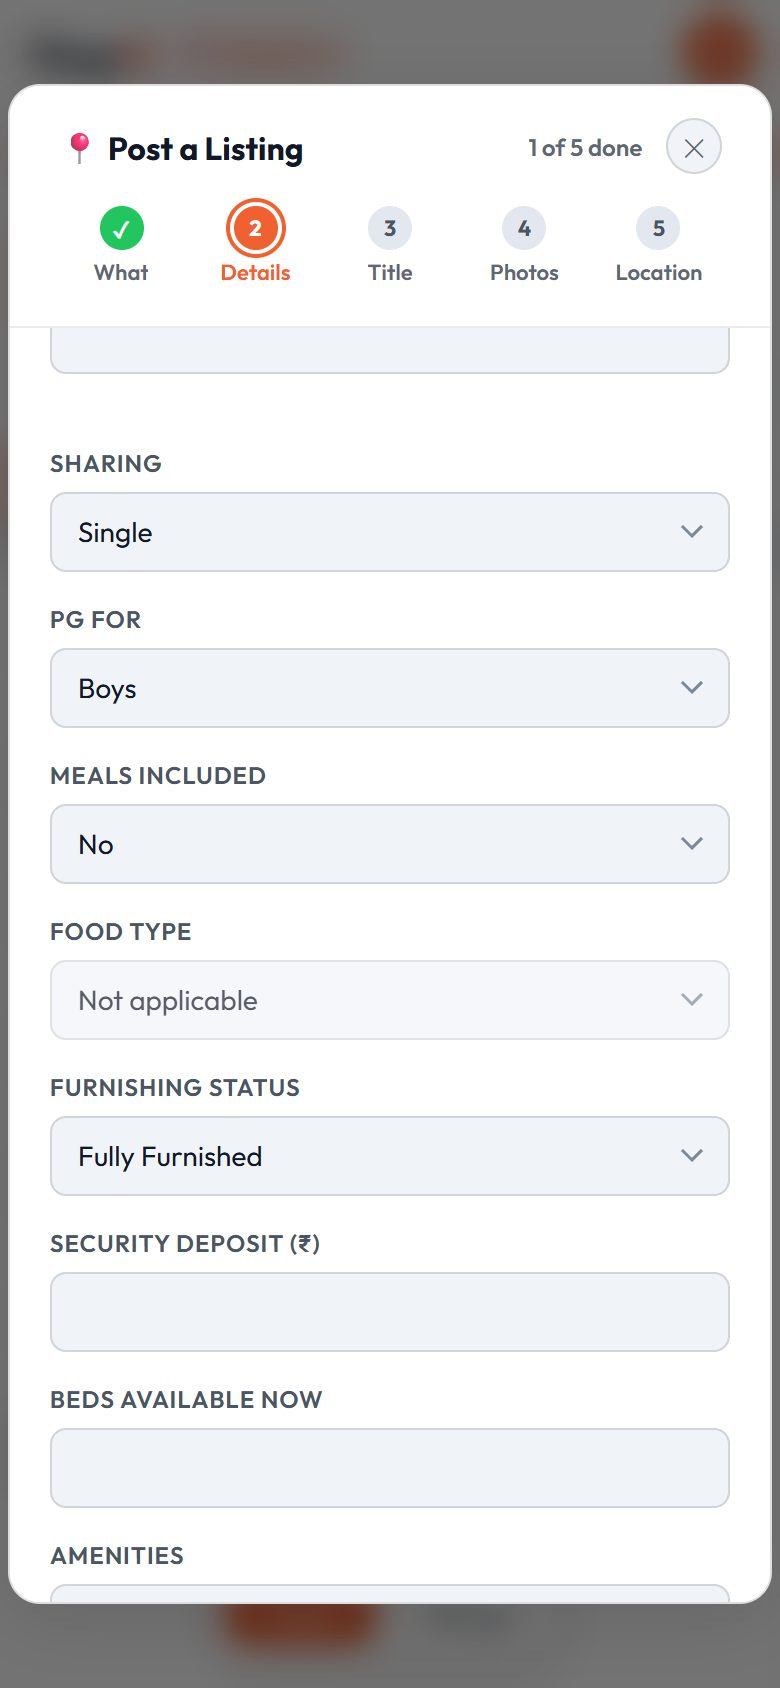
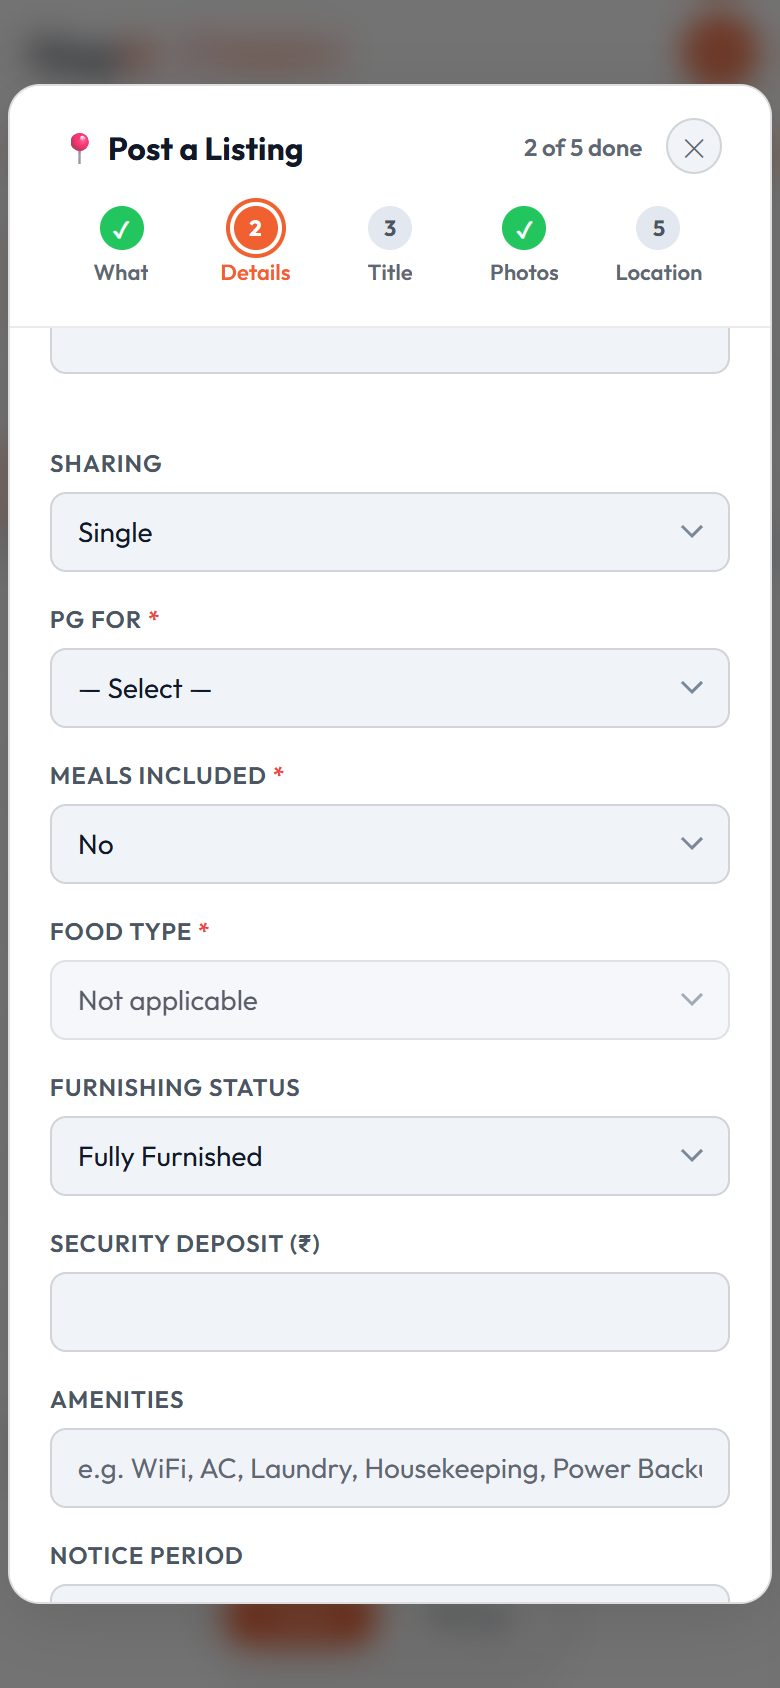
feat(listings): PG click-test changes - required fields, no photo needed
Nagesh's PG click-test (2026-10-28):
- remove 'Beds Available Now'
- rent, PG For, Meals Included, Food Type mandatory: required:true fields
  start at '- Select -', red *, checked by submit + step bar; server
  re-checks via REQUIRED_DETAILS / missingRequiredDetail() on POST + PUT
- PG may be posted without a photo (PHOTO_OPTIONAL_SUBCATS = Plots, PG)

diff --git a/MapIt_MVP_v1.html b/MapIt_MVP_v1.html
@@ -1138,7 +1138,7 @@ html,body{height:100%;overflow:hidden;font-family:'Outfit',sans-serif;background
         <section class="post-sec" data-step="Photos">
         <div class="post-sec-hd">Photos</div>
         <div class="form-group">
-          <label class="form-label">Photos <span style="color:var(--muted);font-weight:400;">(up to 5 · optional for Plots)</span></label>
+          <label class="form-label">Photos <span style="color:var(--muted);font-weight:400;">(up to 5 · optional for Plots and PG)</span></label>
           <div id="postCurPhotos" class="post-cur-photos" style="display:none;"></div>
           <input type="file" id="postPhotos" accept="image/*" multiple style="display:none;" onchange="onPostPhotosPicked(this)"/>
           <button type="button" class="pcp-add" id="postPhotosAdd" onclick="document.getElementById('postPhotos').click()">📷 Add photos</button>
@@ -1647,6 +1647,14 @@ const BHK_OPTIONS = ['1 BHK','1.5 BHK','2 BHK','2.5 BHK','3 BHK','3.5 BHK','4 BH
 // Real Estate types that can only be rented (FB-04). Keep in sync with
 // RENT_ONLY_SUBCATEGORIES in src/config/listingRules.js (server enforces it).
 const RENT_ONLY_SUBCATS = ['PG'];
+// Types that may be posted without a photo (Plots: Session 9G; PG: Nagesh 2026-10-28)
+const PHOTO_OPTIONAL_SUBCATS = ['Plots','PG'];
+// Fields marked required:true must be filled/chosen (a required select starts
+// at "— Select —"). Same rule in submitListing() and the step bar; the server
+// re-checks via REQUIRED_DETAILS in src/config/listingRules.js.
+function missingRequiredField(cat, sub){
+  return ((LISTING_FIELDS[cat]||{})[sub] || []).find(f => f.required && !String(document.getElementById(`pf_${f.id}`)?.value || '').trim());
+}
 
 // ── CATEGORY-SPECIFIC LISTING FIELDS ──
 // starred:true fields appear in map hover card
@@ -1723,14 +1731,13 @@ const LISTING_FIELDS = {
     // words and the "price required" check work unchanged; "/mo" comes from
     // transaction_type='Rent'. Meals = No locks Food Type to 'Not applicable'.
     'PG':                  [
-      { id:'total_price',   label:'Monthly Rent per Bed (₹)',  type:'number', starred:true },
+      { id:'total_price',   label:'Monthly Rent per Bed (₹)',  type:'number', starred:true, required:true },
       { id:'sharing',       label:'Sharing',                   type:'select', options:['Single','Double','Triple','Dormitory'], starred:true },
-      { id:'pg_for',        label:'PG For',                    type:'select', options:['Boys','Girls','Co-living (any)'], starred:true },
-      { id:'meals',         label:'Meals Included',            type:'select', options:['Yes','No'], starred:true },
-      { id:'food_type',     label:'Food Type',                 type:'select', options:['Veg only','Veg + Non-Veg','Not applicable'] },
+      { id:'pg_for',        label:'PG For',                    type:'select', options:['Boys','Girls','Co-living (any)'], starred:true, required:true },
+      { id:'meals',         label:'Meals Included',            type:'select', options:['Yes','No'], starred:true, required:true },
+      { id:'food_type',     label:'Food Type',                 type:'select', options:['Veg only','Veg + Non-Veg','Not applicable'], required:true },
       { id:'furnishing',    label:'Furnishing Status',         type:'select', options:['Fully Furnished','Semi-Furnished','Unfurnished'] },
       { id:'deposit',       label:'Security Deposit (₹)',      type:'number' },
-      { id:'beds_available',label:'Beds Available Now',        type:'number' },
       { id:'amenities',     label:'Amenities',                 type:'text', placeholder:'e.g. WiFi, AC, Laundry, Housekeeping, Power Backup' },
       { id:'notice_period', label:'Notice Period',             type:'select', options:['15 days','1 month','2 months'] },
       { id:'available_from',label:'Available From',            type:'text', placeholder:'e.g. Immediately, 1 Nov' },
@@ -4083,13 +4090,13 @@ const POST_STEP_DONE = {
   Details:  () => {
     const cat = document.getElementById('postCat').value, sub = document.getElementById('postSubcat').value;
     const fields = (LISTING_FIELDS[cat]||{})[sub] || [];
-    return !!sub && (!fields.length || parseFloat(document.getElementById('pf_total_price')?.value) > 0);
+    return !!sub && (!fields.length || parseFloat(document.getElementById('pf_total_price')?.value) > 0) && !missingRequiredField(cat, sub);
   },
   Title:    () => !!document.getElementById('postTitle').value.trim(),
   Photos:   () => {
-    // Same rule as submitListing(): Plots and older photo-less listings
+    // Same rule as submitListing(): Plots/PG and older photo-less listings
     // being edited may go without a photo
-    const needsPhoto = document.getElementById('postSubcat').value !== 'Plots' && (!ST.editingId || _editPhotos.length > 0);
+    const needsPhoto = !PHOTO_OPTIONAL_SUBCATS.includes(document.getElementById('postSubcat').value) && (!ST.editingId || _editPhotos.length > 0);
     return !needsPhoto || (ST.editingId ? keptPhotoTotal() : 0) + _newPhotos.length > 0;
   },
   Location: () => {
@@ -4274,10 +4281,10 @@ function renderDynamicFields(){
   container.innerHTML =
     fields.map(f => {
       const inp = f.type === 'select'
-        ? `<select class="form-input form-select" id="pf_${f.id}">${f.options.map(o=>`<option>${o}</option>`).join('')}</select>`
+        ? `<select class="form-input form-select" id="pf_${f.id}">${f.required?`<option value="" disabled selected>— Select —</option>`:''}${f.options.map(o=>`<option>${o}</option>`).join('')}</select>`
         : `<input class="form-input" id="pf_${f.id}" type="${f.type === 'number' ? 'number' : 'text'}" min="${f.type==='number'?'0':''}"${f.placeholder?` placeholder="${f.placeholder}"`:''}${f.default!=null?` value="${f.default}"`:''}/>`;
       const words = f.id === 'total_price' ? `<div class="price-words" id="pfw_total_price"></div>` : '';
-      return `<div class="form-group"><label class="form-label">${f.label}</label>${inp}${words}</div>`;
+      return `<div class="form-group"><label class="form-label">${f.label}${f.required?' <span style="color:var(--red);">*</span>':''}</label>${inp}${words}</div>`;
     }).join('');
   const tp = document.getElementById('pf_total_price');
   if(tp) tp.addEventListener('input', updatePriceWords);
@@ -4290,7 +4297,7 @@ function syncPgFood(){
   if(!meals || !food) return;
   const none = meals.value === 'No';
   if(none) food.value = 'Not applicable';
-  else if(food.value === 'Not applicable') food.value = 'Veg only';
+  else if(food.value === 'Not applicable') food.value = ''; // Meals = Yes → seller must pick the food type
   food.disabled = none;
 }
 // Session 9J — '2800000' → '₹28 Lakh' under the box, so a missing or extra zero is obvious
@@ -4500,13 +4507,15 @@ async function submitListing(){
   if(!title){ toast('Please enter a title.'); return; }
   if(!subcategory){ toast('Please select a listing type (e.g. Cars, 2 Wheelers).'); return; }
   if(fields.length && !price){ toast('Please enter a price in the listing details.'); return; }
+  const missing = missingRequiredField(category, subcategory);
+  if(missing){ toast(`Please fill in "${missing.label}".`); document.getElementById(`pf_${missing.id}`)?.focus(); return; }
   // Session 9G (Arun): an empty plot often has nothing worth photographing,
-  // so Plots may be posted without a photo. Every other type still needs one.
+  // so Plots (and PG, 2026-10-28) may be posted without a photo. Every other type still needs one.
   const newPhotoCount  = _newPhotos.length;
   const keptPhotoCount = ST.editingId ? keptPhotoTotal() : 0;
   // New listing: needs a photo. Edit: may not remove every photo (older
   // photo-less listings can still be edited without adding one).
-  const needsPhoto = subcategory !== 'Plots' && (!ST.editingId || _editPhotos.length > 0);
+  const needsPhoto = !PHOTO_OPTIONAL_SUBCATS.includes(subcategory) && (!ST.editingId || _editPhotos.length > 0);
   if(needsPhoto && keptPhotoCount + newPhotoCount === 0){
     toast('Please add at least 1 photo.'); return;
   }

diff --git a/public/index.html b/public/index.html
@@ -1138,7 +1138,7 @@ html,body{height:100%;overflow:hidden;font-family:'Outfit',sans-serif;background
         <section class="post-sec" data-step="Photos">
         <div class="post-sec-hd">Photos</div>
         <div class="form-group">
-          <label class="form-label">Photos <span style="color:var(--muted);font-weight:400;">(up to 5 · optional for Plots)</span></label>
+          <label class="form-label">Photos <span style="color:var(--muted);font-weight:400;">(up to 5 · optional for Plots and PG)</span></label>
           <div id="postCurPhotos" class="post-cur-photos" style="display:none;"></div>
           <input type="file" id="postPhotos" accept="image/*" multiple style="display:none;" onchange="onPostPhotosPicked(this)"/>
           <button type="button" class="pcp-add" id="postPhotosAdd" onclick="document.getElementById('postPhotos').click()">📷 Add photos</button>
@@ -1647,6 +1647,14 @@ const BHK_OPTIONS = ['1 BHK','1.5 BHK','2 BHK','2.5 BHK','3 BHK','3.5 BHK','4 BH
 // Real Estate types that can only be rented (FB-04). Keep in sync with
 // RENT_ONLY_SUBCATEGORIES in src/config/listingRules.js (server enforces it).
 const RENT_ONLY_SUBCATS = ['PG'];
+// Types that may be posted without a photo (Plots: Session 9G; PG: Nagesh 2026-10-28)
+const PHOTO_OPTIONAL_SUBCATS = ['Plots','PG'];
+// Fields marked required:true must be filled/chosen (a required select starts
+// at "— Select —"). Same rule in submitListing() and the step bar; the server
+// re-checks via REQUIRED_DETAILS in src/config/listingRules.js.
+function missingRequiredField(cat, sub){
+  return ((LISTING_FIELDS[cat]||{})[sub] || []).find(f => f.required && !String(document.getElementById(`pf_${f.id}`)?.value || '').trim());
+}
 
 // ── CATEGORY-SPECIFIC LISTING FIELDS ──
 // starred:true fields appear in map hover card
@@ -1723,14 +1731,13 @@ const LISTING_FIELDS = {
     // words and the "price required" check work unchanged; "/mo" comes from
     // transaction_type='Rent'. Meals = No locks Food Type to 'Not applicable'.
     'PG':                  [
-      { id:'total_price',   label:'Monthly Rent per Bed (₹)',  type:'number', starred:true },
+      { id:'total_price',   label:'Monthly Rent per Bed (₹)',  type:'number', starred:true, required:true },
       { id:'sharing',       label:'Sharing',                   type:'select', options:['Single','Double','Triple','Dormitory'], starred:true },
-      { id:'pg_for',        label:'PG For',                    type:'select', options:['Boys','Girls','Co-living (any)'], starred:true },
-      { id:'meals',         label:'Meals Included',            type:'select', options:['Yes','No'], starred:true },
-      { id:'food_type',     label:'Food Type',                 type:'select', options:['Veg only','Veg + Non-Veg','Not applicable'] },
+      { id:'pg_for',        label:'PG For',                    type:'select', options:['Boys','Girls','Co-living (any)'], starred:true, required:true },
+      { id:'meals',         label:'Meals Included',            type:'select', options:['Yes','No'], starred:true, required:true },
+      { id:'food_type',     label:'Food Type',                 type:'select', options:['Veg only','Veg + Non-Veg','Not applicable'], required:true },
       { id:'furnishing',    label:'Furnishing Status',         type:'select', options:['Fully Furnished','Semi-Furnished','Unfurnished'] },
       { id:'deposit',       label:'Security Deposit (₹)',      type:'number' },
-      { id:'beds_available',label:'Beds Available Now',        type:'number' },
       { id:'amenities',     label:'Amenities',                 type:'text', placeholder:'e.g. WiFi, AC, Laundry, Housekeeping, Power Backup' },
       { id:'notice_period', label:'Notice Period',             type:'select', options:['15 days','1 month','2 months'] },
       { id:'available_from',label:'Available From',            type:'text', placeholder:'e.g. Immediately, 1 Nov' },
@@ -4083,13 +4090,13 @@ const POST_STEP_DONE = {
   Details:  () => {
     const cat = document.getElementById('postCat').value, sub = document.getElementById('postSubcat').value;
     const fields = (LISTING_FIELDS[cat]||{})[sub] || [];
-    return !!sub && (!fields.length || parseFloat(document.getElementById('pf_total_price')?.value) > 0);
+    return !!sub && (!fields.length || parseFloat(document.getElementById('pf_total_price')?.value) > 0) && !missingRequiredField(cat, sub);
   },
   Title:    () => !!document.getElementById('postTitle').value.trim(),
   Photos:   () => {
-    // Same rule as submitListing(): Plots and older photo-less listings
+    // Same rule as submitListing(): Plots/PG and older photo-less listings
     // being edited may go without a photo
-    const needsPhoto = document.getElementById('postSubcat').value !== 'Plots' && (!ST.editingId || _editPhotos.length > 0);
+    const needsPhoto = !PHOTO_OPTIONAL_SUBCATS.includes(document.getElementById('postSubcat').value) && (!ST.editingId || _editPhotos.length > 0);
     return !needsPhoto || (ST.editingId ? keptPhotoTotal() : 0) + _newPhotos.length > 0;
   },
   Location: () => {
@@ -4274,10 +4281,10 @@ function renderDynamicFields(){
   container.innerHTML =
     fields.map(f => {
       const inp = f.type === 'select'
-        ? `<select class="form-input form-select" id="pf_${f.id}">${f.options.map(o=>`<option>${o}</option>`).join('')}</select>`
+        ? `<select class="form-input form-select" id="pf_${f.id}">${f.required?`<option value="" disabled selected>— Select —</option>`:''}${f.options.map(o=>`<option>${o}</option>`).join('')}</select>`
         : `<input class="form-input" id="pf_${f.id}" type="${f.type === 'number' ? 'number' : 'text'}" min="${f.type==='number'?'0':''}"${f.placeholder?` placeholder="${f.placeholder}"`:''}${f.default!=null?` value="${f.default}"`:''}/>`;
       const words = f.id === 'total_price' ? `<div class="price-words" id="pfw_total_price"></div>` : '';
-      return `<div class="form-group"><label class="form-label">${f.label}</label>${inp}${words}</div>`;
+      return `<div class="form-group"><label class="form-label">${f.label}${f.required?' <span style="color:var(--red);">*</span>':''}</label>${inp}${words}</div>`;
     }).join('');
   const tp = document.getElementById('pf_total_price');
   if(tp) tp.addEventListener('input', updatePriceWords);
@@ -4290,7 +4297,7 @@ function syncPgFood(){
   if(!meals || !food) return;
   const none = meals.value === 'No';
   if(none) food.value = 'Not applicable';
-  else if(food.value === 'Not applicable') food.value = 'Veg only';
+  else if(food.value === 'Not applicable') food.value = ''; // Meals = Yes → seller must pick the food type
   food.disabled = none;
 }
 // Session 9J — '2800000' → '₹28 Lakh' under the box, so a missing or extra zero is obvious
@@ -4500,13 +4507,15 @@ async function submitListing(){
   if(!title){ toast('Please enter a title.'); return; }
   if(!subcategory){ toast('Please select a listing type (e.g. Cars, 2 Wheelers).'); return; }
   if(fields.length && !price){ toast('Please enter a price in the listing details.'); return; }
+  const missing = missingRequiredField(category, subcategory);
+  if(missing){ toast(`Please fill in "${missing.label}".`); document.getElementById(`pf_${missing.id}`)?.focus(); return; }
   // Session 9G (Arun): an empty plot often has nothing worth photographing,
-  // so Plots may be posted without a photo. Every other type still needs one.
+  // so Plots (and PG, 2026-10-28) may be posted without a photo. Every other type still needs one.
   const newPhotoCount  = _newPhotos.length;
   const keptPhotoCount = ST.editingId ? keptPhotoTotal() : 0;
   // New listing: needs a photo. Edit: may not remove every photo (older
   // photo-less listings can still be edited without adding one).
-  const needsPhoto = subcategory !== 'Plots' && (!ST.editingId || _editPhotos.length > 0);
+  const needsPhoto = !PHOTO_OPTIONAL_SUBCATS.includes(subcategory) && (!ST.editingId || _editPhotos.length > 0);
   if(needsPhoto && keptPhotoCount + newPhotoCount === 0){
     toast('Please add at least 1 photo.'); return;
   }

diff --git a/src/routes/listings.js b/src/routes/listings.js
@@ -26,7 +26,7 @@ const { moderateAndAlert } = require('../utils/notifyListings');
 const { notifySellerListingLive } = require('../utils/notifySeller');
 const { needsPhoneVerification } = require('../utils/phoneGate');
 const { waitUntil } = require('@vercel/functions');
-const { LISTING_EXPIRY_ENABLED, enforceRentOnly } = require('../config/listingRules');
+const { LISTING_EXPIRY_ENABLED, enforceRentOnly, missingRequiredDetail } = require('../config/listingRules');
 
 const router = express.Router();
 
@@ -634,6 +634,8 @@ router.post('/', requireAuth, async (req, res, next) => {
     }
     if (title.length > 80) return next(createError('Title must be 80 characters or less.'));
     if (price && parseFloat(price) < 0) return next(createError('Price cannot be negative.'));
+    const missingDetail = missingRequiredDetail(category, subcategory, details);
+    if (missingDetail) return next(createError(`Please fill in "${missingDetail}".`));
 
     // Session 9C: new accounts must verify their phone before posting. The
     // frontend pre-checks via /api/auth/otp/phone/status; this is the real gate.
@@ -750,6 +752,9 @@ router.put('/:id', requireAuth, async (req, res, next) => {
     const finalDetails = updates.details ?? existing.details;
     const rentOnly = enforceRentOnly(finalCat, finalSub, finalDetails);
     if (rentOnly?.transaction_type !== finalDetails?.transaction_type) updates.details = rentOnly;
+    // Required details (PG): checked on the listing as it will be saved
+    const missingDetail = missingRequiredDetail(finalCat, finalSub, updates.details ?? existing.details);
+    if (missingDetail) return next(createError(`Please fill in "${missingDetail}".`));
 
     if (updates.show_exact_location !== undefined) {
       updates.show_exact_location = updates.show_exact_location === true || updates.show_exact_location === 'true';

diff --git a/src/config/listingRules.js b/src/config/listingRules.js
@@ -23,4 +23,19 @@ function enforceRentOnly(category, subcategory, details) {
   return { ...d, transaction_type: 'Rent' };
 }
 
-module.exports = { LISTING_EXPIRY_ENABLED, RENT_ONLY_SUBCATEGORIES, enforceRentOnly };
+// Detail fields a subcategory must have (Nagesh 2026-10-28). The page marks
+// them required:true in LISTING_FIELDS; keep the two in sync.
+const REQUIRED_DETAILS = {
+  're/PG': { total_price: 'Monthly Rent per Bed', pg_for: 'PG For', meals: 'Meals Included', food_type: 'Food Type' },
+};
+
+// Returns the label of the first missing required field, or null.
+function missingRequiredDetail(category, subcategory, details) {
+  const req = REQUIRED_DETAILS[`${category}/${subcategory}`];
+  if (!req) return null;
+  const d = details && typeof details === 'object' ? details : {};
+  const id = Object.keys(req).find(k => !String(d[k] ?? '').trim());
+  return id ? req[id] : null;
+}
+
+module.exports = { LISTING_EXPIRY_ENABLED, RENT_ONLY_SUBCATEGORIES, enforceRentOnly, missingRequiredDetail };

diff --git a/public/user-guide.html b/public/user-guide.html
@@ -275,7 +275,7 @@ const TOPICS = [
     intro:'Posting needs a verified phone number (see Verifying Your Phone). Each new listing is checked by our team before it goes live, usually within 4 hours.',
     steps:[
       ['Tap Post a Listing','The orange <b>➕ Post a Listing</b> button in the top bar.'],
-      ['Fill in the details','Pick a category and type, add up to 5 photos (optional for Plots) and describe it.'],
+      ['Fill in the details','Pick a category and type, add up to 5 photos (optional for Plots and PG) and describe it.'],
       ['Place the pin and submit','Set the location on the map. Buyers see an approximate area unless you choose to show the exact spot.']
     ] },
 
